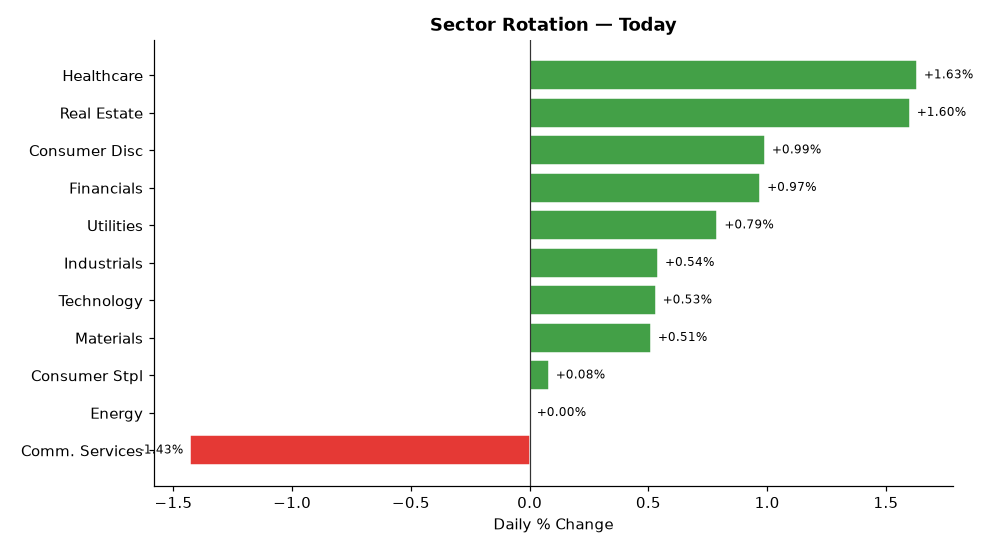
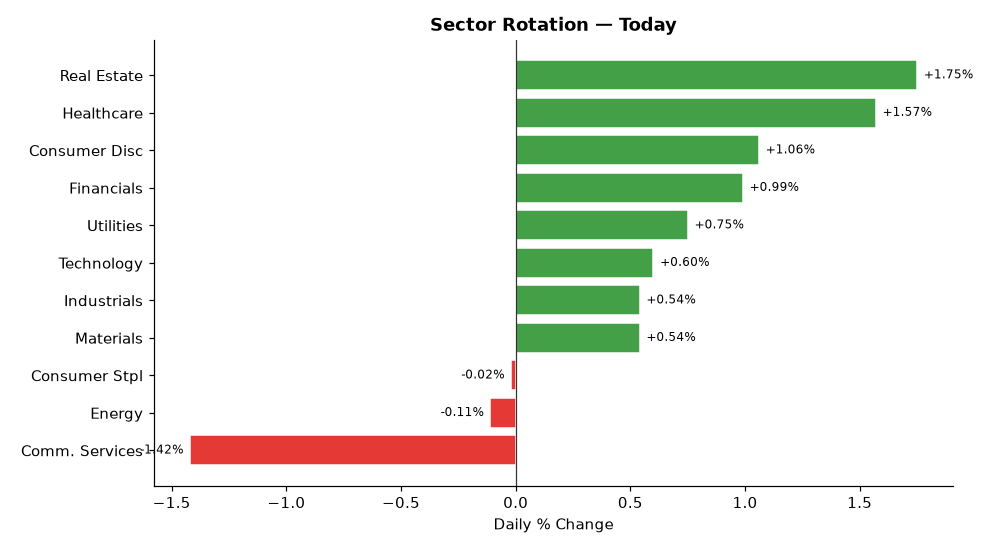
deploy: b7fadf5b06deb90e7ebb92f278722414bdd9750d

diff --git a/index.html b/index.html
@@ -4,7 +4,7 @@
   <meta charset="UTF-8">
   <meta name="viewport" content="width=device-width,initial-scale=1">
   <meta http-equiv="Cache-Control" content="no-cache,no-store,must-revalidate">
-  <title>Stock Breakout Screener — 2026-10-09 18:37</title>
+  <title>Stock Breakout Screener — 2026-10-09 18:54</title>
   <style>
     *{box-sizing:border-box;margin:0;padding:0}
     body{font-family:'Segoe UI',Arial,sans-serif;background:#f0f2f5;
@@ -34,7 +34,7 @@
 
 <div class="hdr">
   <h1>📈 Stock Breakout Screener</h1>
-  <p>Updated: 2026-10-09 18:37 UTC &nbsp;·&nbsp; Phase: Regular Market Hours &nbsp;·&nbsp;
+  <p>Updated: 2026-10-09 18:54 UTC &nbsp;·&nbsp; Phase: Regular Market Hours &nbsp;·&nbsp;
      129 stocks screened &nbsp;·&nbsp; Top 5 by conviction score</p>
 </div>
 
@@ -60,8 +60,8 @@
           <div style="display:flex;align-items:center;gap:10px;
                       flex-wrap:wrap;margin-bottom:10px">
             <span style="font-size:22px">🟡</span>
-            <span style="font-size:19px;font-weight:700">1. MRK</span>
-            <span style="font-size:12px;color:#666">Healthcare</span>
+            <span style="font-size:19px;font-weight:700">1. AMT</span>
+            <span style="font-size:12px;color:#666">Real Estate</span>
             <span style="margin-left:auto;background:#1a237e;color:#fff;
                          padding:3px 12px;border-radius:12px;
                          font-size:13px;font-weight:600">
@@ -69,7 +69,7 @@
             </span>
           </div>
           <ul style="margin:0;padding-left:18px;font-size:13px;
-                     color:#333;line-height:1.8"><li style="margin:5px 0"><span style="background:#ffebee;color:#b71c1c;padding:2px 7px;border-radius:4px;font-size:11px;">❌</span> Volume: <b>0.5× average</b> — Above-average activity</li><li style="margin:5px 0"><span style="background:#e8f5e9;color:#2e7d32;padding:2px 7px;border-radius:4px;font-size:11px;">✅</span> Candle: close <b>$146.20</b> vs open <b>$141.37</b> (+3.4%) — regular market close</li><li style="margin:5px 0"><span style="background:#e8f5e9;color:#2e7d32;padding:2px 7px;border-radius:4px;font-size:11px;">✅</span> 200-Day MA: price <b>$146.20</b> vs MA <b>$127.96</b> — <b>✅ Above</b> long-term trend</li><li style="margin:5px 0"><span style="background:#e8f5e9;color:#2e7d32;padding:2px 7px;border-radius:4px;font-size:11px;">✅</span> Inst. ownership: <b>83.0%</b> · MFI: <b>40.8</b> · Market cap: <b>$360.7B</b></li><li style="margin:5px 0"><span style="background:#ffebee;color:#b71c1c;padding:2px 7px;border-radius:4px;font-size:11px;">❌</span> Last similar breakout: <b>Aug 19, 2026</b> → <b>-0.4%</b> over 10 trading days</li></ul>
+                     color:#333;line-height:1.8"><li style="margin:5px 0"><span style="background:#fffde7;color:#f57f17;padding:2px 7px;border-radius:4px;font-size:11px;">⚠</span> Volume: <b>2.0× average</b> — Above-average activity</li><li style="margin:5px 0"><span style="background:#fffde7;color:#f57f17;padding:2px 7px;border-radius:4px;font-size:11px;">⚠</span> Candle: close <b>$180.49</b> vs open <b>$176.91</b> (+2.0%) — regular market close</li><li style="margin:5px 0"><span style="background:#e8f5e9;color:#2e7d32;padding:2px 7px;border-radius:4px;font-size:11px;">✅</span> 200-Day MA: price <b>$180.49</b> vs MA <b>$172.91</b> — <b>✅ Above</b> long-term trend</li><li style="margin:5px 0"><span style="background:#e8f5e9;color:#2e7d32;padding:2px 7px;border-radius:4px;font-size:11px;">✅</span> Inst. ownership: <b>96.8%</b> · MFI: <b>47.3</b> · Market cap: <b>$84.1B</b></li></ul>
         </div>
         <div style="background:#fff;border:1px solid #ddd;border-radius:10px;
                     padding:16px 20px;margin-bottom:12px;
@@ -77,8 +77,8 @@
           <div style="display:flex;align-items:center;gap:10px;
                       flex-wrap:wrap;margin-bottom:10px">
             <span style="font-size:22px">🟡</span>
-            <span style="font-size:19px;font-weight:700">2. ABBV</span>
-            <span style="font-size:12px;color:#666">Healthcare</span>
+            <span style="font-size:19px;font-weight:700">2. CCI</span>
+            <span style="font-size:12px;color:#666">Real Estate</span>
             <span style="margin-left:auto;background:#1a237e;color:#fff;
                          padding:3px 12px;border-radius:12px;
                          font-size:13px;font-weight:600">
@@ -86,7 +86,7 @@
             </span>
           </div>
           <ul style="margin:0;padding-left:18px;font-size:13px;
-                     color:#333;line-height:1.8"><li style="margin:5px 0"><span style="background:#ffebee;color:#b71c1c;padding:2px 7px;border-radius:4px;font-size:11px;">❌</span> Volume: <b>0.3× average</b> — Above-average activity</li><li style="margin:5px 0"><span style="background:#ffebee;color:#b71c1c;padding:2px 7px;border-radius:4px;font-size:11px;">❌</span> Candle: close <b>$276.25</b> vs open <b>$271.53</b> (+1.7%) — regular market close</li><li style="margin:5px 0"><span style="background:#e8f5e9;color:#2e7d32;padding:2px 7px;border-radius:4px;font-size:11px;">✅</span> 200-Day MA: price <b>$276.25</b> vs MA <b>$237.99</b> — <b>✅ Above</b> long-term trend</li><li style="margin:5px 0"><span style="background:#e8f5e9;color:#2e7d32;padding:2px 7px;border-radius:4px;font-size:11px;">✅</span> Inst. ownership: <b>77.3%</b> · MFI: <b>60.5</b> · Market cap: <b>$488.2B</b></li><li style="margin:5px 0"><span style="background:#ffebee;color:#b71c1c;padding:2px 7px;border-radius:4px;font-size:11px;">❌</span> Last similar breakout: <b>Jun 26, 2026</b> → <b>-2.1%</b> over 10 trading days</li></ul>
+                     color:#333;line-height:1.8"><li style="margin:5px 0"><span style="background:#e8f5e9;color:#2e7d32;padding:2px 7px;border-radius:4px;font-size:11px;">✅</span> Volume: <b>2.5× average</b> — 🔥 Strong unusual activity</li><li style="margin:5px 0"><span style="background:#e8f5e9;color:#2e7d32;padding:2px 7px;border-radius:4px;font-size:11px;">✅</span> Candle: close <b>$77.89</b> vs open <b>$74.32</b> (+4.8%) — regular market close</li><li style="margin:5px 0"><span style="background:#ffebee;color:#b71c1c;padding:2px 7px;border-radius:4px;font-size:11px;">❌</span> 200-Day MA: price <b>$77.89</b> vs MA <b>$79.18</b> — <b>❌ Below</b> long-term trend</li><li style="margin:5px 0"><span style="background:#e8f5e9;color:#2e7d32;padding:2px 7px;border-radius:4px;font-size:11px;">✅</span> Inst. ownership: <b>102.0%</b> · MFI: <b>44.1</b> · Market cap: <b>$33.1B</b></li></ul>
         </div>
         <div style="background:#fff;border:1px solid #ddd;border-radius:10px;
                     padding:16px 20px;margin-bottom:12px;
@@ -99,11 +99,11 @@
             <span style="margin-left:auto;background:#1a237e;color:#fff;
                          padding:3px 12px;border-radius:12px;
                          font-size:13px;font-weight:600">
-              10/17
+              9/17
             </span>
           </div>
           <ul style="margin:0;padding-left:18px;font-size:13px;
-                     color:#333;line-height:1.8"><li style="margin:5px 0"><span style="background:#ffebee;color:#b71c1c;padding:2px 7px;border-radius:4px;font-size:11px;">❌</span> Volume: <b>0.3× average</b> — Above-average activity</li><li style="margin:5px 0"><span style="background:#ffebee;color:#b71c1c;padding:2px 7px;border-radius:4px;font-size:11px;">❌</span> Candle: close <b>$535.35</b> vs open <b>$528.23</b> (+1.3%) — regular market close</li><li style="margin:5px 0"><span style="background:#e8f5e9;color:#2e7d32;padding:2px 7px;border-radius:4px;font-size:11px;">✅</span> 200-Day MA: price <b>$535.35</b> vs MA <b>$440.58</b> — <b>✅ Above</b> long-term trend</li><li style="margin:5px 0"><span style="background:#e8f5e9;color:#2e7d32;padding:2px 7px;border-radius:4px;font-size:11px;">✅</span> Inst. ownership: <b>75.8%</b> · MFI: <b>75.3</b> · Market cap: <b>$3975.9B</b></li><li style="margin:5px 0"><span style="background:#e8f5e9;color:#2e7d32;padding:2px 7px;border-radius:4px;font-size:11px;">✅</span> Last similar breakout: <b>Jul 30, 2026</b> → <b>+10.1%</b> over 10 trading days</li></ul>
+                     color:#333;line-height:1.8"><li style="margin:5px 0"><span style="background:#ffebee;color:#b71c1c;padding:2px 7px;border-radius:4px;font-size:11px;">❌</span> Volume: <b>0.3× average</b> — Above-average activity</li><li style="margin:5px 0"><span style="background:#ffebee;color:#b71c1c;padding:2px 7px;border-radius:4px;font-size:11px;">❌</span> Candle: close <b>$536.66</b> vs open <b>$528.23</b> (+1.6%) — regular market close</li><li style="margin:5px 0"><span style="background:#e8f5e9;color:#2e7d32;padding:2px 7px;border-radius:4px;font-size:11px;">✅</span> 200-Day MA: price <b>$536.66</b> vs MA <b>$440.59</b> — <b>✅ Above</b> long-term trend</li><li style="margin:5px 0"><span style="background:#e8f5e9;color:#2e7d32;padding:2px 7px;border-radius:4px;font-size:11px;">✅</span> Inst. ownership: <b>75.8%</b> · MFI: <b>75.4</b> · Market cap: <b>$3984.8B</b></li><li style="margin:5px 0"><span style="background:#e8f5e9;color:#2e7d32;padding:2px 7px;border-radius:4px;font-size:11px;">✅</span> Last similar breakout: <b>Jul 30, 2026</b> → <b>+10.1%</b> over 10 trading days</li></ul>
         </div>
         <div style="background:#fff;border:1px solid #ddd;border-radius:10px;
                     padding:16px 20px;margin-bottom:12px;
@@ -111,16 +111,16 @@
           <div style="display:flex;align-items:center;gap:10px;
                       flex-wrap:wrap;margin-bottom:10px">
             <span style="font-size:22px">🟡</span>
-            <span style="font-size:19px;font-weight:700">4. PFE</span>
+            <span style="font-size:19px;font-weight:700">4. MRK</span>
             <span style="font-size:12px;color:#666">Healthcare</span>
             <span style="margin-left:auto;background:#1a237e;color:#fff;
                          padding:3px 12px;border-radius:12px;
                          font-size:13px;font-weight:600">
-              10/17
+              9/17
             </span>
           </div>
           <ul style="margin:0;padding-left:18px;font-size:13px;
-                     color:#333;line-height:1.8"><li style="margin:5px 0"><span style="background:#ffebee;color:#b71c1c;padding:2px 7px;border-radius:4px;font-size:11px;">❌</span> Volume: <b>0.4× average</b> — Above-average activity</li><li style="margin:5px 0"><span style="background:#ffebee;color:#b71c1c;padding:2px 7px;border-radius:4px;font-size:11px;">❌</span> Candle: close <b>$28.20</b> vs open <b>$27.61</b> (+2.2%) — regular market close</li><li style="margin:5px 0"><span style="background:#e8f5e9;color:#2e7d32;padding:2px 7px;border-radius:4px;font-size:11px;">✅</span> 200-Day MA: price <b>$28.20</b> vs MA <b>$26.08</b> — <b>✅ Above</b> long-term trend</li><li style="margin:5px 0"><span style="background:#e8f5e9;color:#2e7d32;padding:2px 7px;border-radius:4px;font-size:11px;">✅</span> Inst. ownership: <b>69.2%</b> · MFI: <b>59.0</b> · Market cap: <b>$160.8B</b></li></ul>
+                     color:#333;line-height:1.8"><li style="margin:5px 0"><span style="background:#ffebee;color:#b71c1c;padding:2px 7px;border-radius:4px;font-size:11px;">❌</span> Volume: <b>0.5× average</b> — Above-average activity</li><li style="margin:5px 0"><span style="background:#e8f5e9;color:#2e7d32;padding:2px 7px;border-radius:4px;font-size:11px;">✅</span> Candle: close <b>$146.17</b> vs open <b>$141.37</b> (+3.4%) — regular market close</li><li style="margin:5px 0"><span style="background:#e8f5e9;color:#2e7d32;padding:2px 7px;border-radius:4px;font-size:11px;">✅</span> 200-Day MA: price <b>$146.17</b> vs MA <b>$127.95</b> — <b>✅ Above</b> long-term trend</li><li style="margin:5px 0"><span style="background:#e8f5e9;color:#2e7d32;padding:2px 7px;border-radius:4px;font-size:11px;">✅</span> Inst. ownership: <b>83.0%</b> · MFI: <b>40.9</b> · Market cap: <b>$360.6B</b></li><li style="margin:5px 0"><span style="background:#ffebee;color:#b71c1c;padding:2px 7px;border-radius:4px;font-size:11px;">❌</span> Last similar breakout: <b>Aug 19, 2026</b> → <b>-0.4%</b> over 10 trading days</li></ul>
         </div>
         <div style="background:#fff;border:1px solid #ddd;border-radius:10px;
                     padding:16px 20px;margin-bottom:12px;
@@ -128,16 +128,16 @@
           <div style="display:flex;align-items:center;gap:10px;
                       flex-wrap:wrap;margin-bottom:10px">
             <span style="font-size:22px">🟡</span>
-            <span style="font-size:19px;font-weight:700">5. LLY</span>
+            <span style="font-size:19px;font-weight:700">5. ABBV</span>
             <span style="font-size:12px;color:#666">Healthcare</span>
             <span style="margin-left:auto;background:#1a237e;color:#fff;
                          padding:3px 12px;border-radius:12px;
                          font-size:13px;font-weight:600">
-              10/17
+              9/17
             </span>
           </div>
           <ul style="margin:0;padding-left:18px;font-size:13px;
-                     color:#333;line-height:1.8"><li style="margin:5px 0"><span style="background:#ffebee;color:#b71c1c;padding:2px 7px;border-radius:4px;font-size:11px;">❌</span> Volume: <b>0.3× average</b> — Above-average activity</li><li style="margin:5px 0"><span style="background:#ffebee;color:#b71c1c;padding:2px 7px;border-radius:4px;font-size:11px;">❌</span> Candle: close <b>$1175.44</b> vs open <b>$1153.56</b> (+1.9%) — regular market close</li><li style="margin:5px 0"><span style="background:#e8f5e9;color:#2e7d32;padding:2px 7px;border-radius:4px;font-size:11px;">✅</span> 200-Day MA: price <b>$1175.44</b> vs MA <b>$1110.27</b> — <b>✅ Above</b> long-term trend</li><li style="margin:5px 0"><span style="background:#e8f5e9;color:#2e7d32;padding:2px 7px;border-radius:4px;font-size:11px;">✅</span> Inst. ownership: <b>85.3%</b> · MFI: <b>52.5</b> · Market cap: <b>$1047.4B</b></li><li style="margin:5px 0"><span style="background:#ffebee;color:#b71c1c;padding:2px 7px;border-radius:4px;font-size:11px;">❌</span> Last similar breakout: <b>Jun 26, 2026</b> → <b>-2.2%</b> over 10 trading days</li></ul>
+                     color:#333;line-height:1.8"><li style="margin:5px 0"><span style="background:#ffebee;color:#b71c1c;padding:2px 7px;border-radius:4px;font-size:11px;">❌</span> Volume: <b>0.3× average</b> — Above-average activity</li><li style="margin:5px 0"><span style="background:#ffebee;color:#b71c1c;padding:2px 7px;border-radius:4px;font-size:11px;">❌</span> Candle: close <b>$276.29</b> vs open <b>$271.53</b> (+1.8%) — regular market close</li><li style="margin:5px 0"><span style="background:#e8f5e9;color:#2e7d32;padding:2px 7px;border-radius:4px;font-size:11px;">✅</span> 200-Day MA: price <b>$276.29</b> vs MA <b>$237.99</b> — <b>✅ Above</b> long-term trend</li><li style="margin:5px 0"><span style="background:#e8f5e9;color:#2e7d32;padding:2px 7px;border-radius:4px;font-size:11px;">✅</span> Inst. ownership: <b>77.3%</b> · MFI: <b>60.6</b> · Market cap: <b>$488.2B</b></li><li style="margin:5px 0"><span style="background:#ffebee;color:#b71c1c;padding:2px 7px;border-radius:4px;font-size:11px;">❌</span> Last similar breakout: <b>Jun 26, 2026</b> → <b>-2.1%</b> over 10 trading days</li></ul>
         </div>
 
 
@@ -168,6 +168,60 @@
   
         <tr>
           <td style="font-weight:700;text-align:left;padding-left:10px">
+            🟡 AMT</td>
+          <td style="background:#fff9c4">2.0×</td>
+          <td style="background:#fff9c4">+2.0%</td>
+          <td style="background:#c8e6c9">
+            ▲ Above</td>
+          <td style="background:#c8e6c9">
+            96.8%</td>
+          <td style="background:#ffcdd2">
+            47.3</td>
+          <td style="background:#c8e6c9">Real Estate</td>
+          <td style="background:#c8e6c9">
+            75.3%</td>
+          <td style="background:#ffcdd2">
+            N/A</td>
+          <td style="font-weight:800;font-size:15px">11/17</td>
+        </tr>
+        <tr>
+          <td style="font-weight:700;text-align:left;padding-left:10px">
+            🟡 CCI</td>
+          <td style="background:#c8e6c9">2.5×</td>
+          <td style="background:#c8e6c9">+4.8%</td>
+          <td style="background:#ffcdd2">
+            ▼ Below</td>
+          <td style="background:#c8e6c9">
+            102.0%</td>
+          <td style="background:#ffcdd2">
+            44.1</td>
+          <td style="background:#c8e6c9">Real Estate</td>
+          <td style="background:#c8e6c9">
+            88.6%</td>
+          <td style="background:#ffcdd2">
+            N/A</td>
+          <td style="font-weight:800;font-size:15px">11/17</td>
+        </tr>
+        <tr>
+          <td style="font-weight:700;text-align:left;padding-left:10px">
+            🟡 MSFT</td>
+          <td style="background:#ffcdd2">0.3×</td>
+          <td style="background:#ffcdd2">+1.6%</td>
+          <td style="background:#c8e6c9">
+            ▲ Above</td>
+          <td style="background:#c8e6c9">
+            75.8%</td>
+          <td style="background:#c8e6c9">
+            75.4</td>
+          <td style="background:#ffcdd2">Technology</td>
+          <td style="background:#fff9c4">
+            17.2%</td>
+          <td style="background:#c8e6c9">
+            +10.1%</td>
+          <td style="font-weight:800;font-size:15px">9/17</td>
+        </tr>
+        <tr>
+          <td style="font-weight:700;text-align:left;padding-left:10px">
             🟡 MRK</td>
           <td style="background:#ffcdd2">0.5×</td>
           <td style="background:#c8e6c9">+3.4%</td>
@@ -176,85 +230,31 @@
           <td style="background:#c8e6c9">
             83.0%</td>
           <td style="background:#ffcdd2">
-            40.8</td>
-          <td style="background:#c8e6c9">Healthcare</td>
+            40.9</td>
+          <td style="background:#fff9c4">Healthcare</td>
           <td style="background:#c8e6c9">
-            118.3%</td>
+            119.6%</td>
           <td style="background:#ffcdd2">
             -0.4%</td>
-          <td style="font-weight:800;font-size:15px">11/17</td>
+          <td style="font-weight:800;font-size:15px">9/17</td>
         </tr>
         <tr>
           <td style="font-weight:700;text-align:left;padding-left:10px">
             🟡 ABBV</td>
           <td style="background:#ffcdd2">0.3×</td>
-          <td style="background:#ffcdd2">+1.7%</td>
+          <td style="background:#ffcdd2">+1.8%</td>
           <td style="background:#c8e6c9">
             ▲ Above</td>
           <td style="background:#c8e6c9">
             77.3%</td>
           <td style="background:#c8e6c9">
-            60.5</td>
-          <td style="background:#c8e6c9">Healthcare</td>
+            60.6</td>
+          <td style="background:#fff9c4">Healthcare</td>
           <td style="background:#c8e6c9">
-            125.3%</td>
+            125.2%</td>
           <td style="background:#ffcdd2">
             -2.1%</td>
-          <td style="font-weight:800;font-size:15px">11/17</td>
-        </tr>
-        <tr>
-          <td style="font-weight:700;text-align:left;padding-left:10px">
-            🟡 MSFT</td>
-          <td style="background:#ffcdd2">0.3×</td>
-          <td style="background:#ffcdd2">+1.3%</td>
-          <td style="background:#c8e6c9">
-            ▲ Above</td>
-          <td style="background:#c8e6c9">
-            75.8%</td>
-          <td style="background:#c8e6c9">
-            75.3</td>
-          <td style="background:#ffcdd2">Technology</td>
-          <td style="background:#c8e6c9">
-            83.9%</td>
-          <td style="background:#c8e6c9">
-            +10.1%</td>
-          <td style="font-weight:800;font-size:15px">10/17</td>
-        </tr>
-        <tr>
-          <td style="font-weight:700;text-align:left;padding-left:10px">
-            🟡 PFE</td>
-          <td style="background:#ffcdd2">0.4×</td>
-          <td style="background:#ffcdd2">+2.2%</td>
-          <td style="background:#c8e6c9">
-            ▲ Above</td>
-          <td style="background:#c8e6c9">
-            69.2%</td>
-          <td style="background:#fff9c4">
-            59.0</td>
-          <td style="background:#c8e6c9">Healthcare</td>
-          <td style="background:#c8e6c9">
-            181.2%</td>
-          <td style="background:#ffcdd2">
-            N/A</td>
-          <td style="font-weight:800;font-size:15px">10/17</td>
-        </tr>
-        <tr>
-          <td style="font-weight:700;text-align:left;padding-left:10px">
-            🟡 LLY</td>
-          <td style="background:#ffcdd2">0.3×</td>
-          <td style="background:#ffcdd2">+1.9%</td>
-          <td style="background:#c8e6c9">
-            ▲ Above</td>
-          <td style="background:#c8e6c9">
-            85.3%</td>
-          <td style="background:#fff9c4">
-            52.5</td>
-          <td style="background:#c8e6c9">Healthcare</td>
-          <td style="background:#c8e6c9">
-            115.5%</td>
-          <td style="background:#ffcdd2">
-            -2.2%</td>
-          <td style="font-weight:800;font-size:15px">10/17</td>
+          <td style="font-weight:800;font-size:15px">9/17</td>
         </tr>
 </table>
 </div>
@@ -277,58 +277,58 @@
       
         <tr>
           <td style="text-align:left;padding-left:10px;font-weight:600">
-            #1 Healthcare</td>
-          <td style="background:#e8f5e9;color:#2e7d32;font-weight:700">+1.63%</td>
+            #1 Real Estate</td>
+          <td style="background:#e8f5e9;color:#2e7d32;font-weight:700">+1.75%</td>
         </tr>
         <tr>
           <td style="text-align:left;padding-left:10px;font-weight:600">
-            #2 Real Estate</td>
-          <td style="background:#e8f5e9;color:#2e7d32;font-weight:700">+1.60%</td>
+            #2 Healthcare</td>
+          <td style="background:#e8f5e9;color:#2e7d32;font-weight:700">+1.57%</td>
         </tr>
         <tr>
           <td style="text-align:left;padding-left:10px;font-weight:600">
             #3 Consumer Disc</td>
-          <td style="background:#e8f5e9;color:#2e7d32;font-weight:700">+0.99%</td>
+          <td style="background:#e8f5e9;color:#2e7d32;font-weight:700">+1.06%</td>
         </tr>
         <tr>
           <td style="text-align:left;padding-left:10px;font-weight:600">
             #4 Financials</td>
-          <td style="background:#e8f5e9;color:#2e7d32;font-weight:700">+0.97%</td>
+          <td style="background:#e8f5e9;color:#2e7d32;font-weight:700">+0.99%</td>
         </tr>
         <tr>
           <td style="text-align:left;padding-left:10px;font-weight:600">
             #5 Utilities</td>
-          <td style="background:#e8f5e9;color:#2e7d32;font-weight:700">+0.79%</td>
+          <td style="background:#e8f5e9;color:#2e7d32;font-weight:700">+0.75%</td>
         </tr>
         <tr>
           <td style="text-align:left;padding-left:10px;font-weight:600">
-            #6 Industrials</td>
+            #6 Technology</td>
+          <td style="background:#e8f5e9;color:#2e7d32;font-weight:700">+0.60%</td>
+        </tr>
+        <tr>
+          <td style="text-align:left;padding-left:10px;font-weight:600">
+            #7 Industrials</td>
           <td style="background:#e8f5e9;color:#2e7d32;font-weight:700">+0.54%</td>
         </tr>
         <tr>
           <td style="text-align:left;padding-left:10px;font-weight:600">
-            #7 Technology</td>
-          <td style="background:#e8f5e9;color:#2e7d32;font-weight:700">+0.53%</td>
-        </tr>
-        <tr>
-          <td style="text-align:left;padding-left:10px;font-weight:600">
             #8 Materials</td>
-          <td style="background:#e8f5e9;color:#2e7d32;font-weight:700">+0.51%</td>
+          <td style="background:#e8f5e9;color:#2e7d32;font-weight:700">+0.54%</td>
         </tr>
         <tr>
           <td style="text-align:left;padding-left:10px;font-weight:600">
             #9 Consumer Stpl</td>
-          <td style="background:#e8f5e9;color:#2e7d32;font-weight:700">+0.08%</td>
+          <td style="background:#ffebee;color:#c62828;font-weight:700">-0.02%</td>
         </tr>
         <tr>
           <td style="text-align:left;padding-left:10px;font-weight:600">
             #10 Energy</td>
-          <td style="background:#ffebee;color:#c62828;font-weight:700">+0.00%</td>
+          <td style="background:#ffebee;color:#c62828;font-weight:700">-0.11%</td>
         </tr>
         <tr>
           <td style="text-align:left;padding-left:10px;font-weight:600">
             #11 Comm. Services</td>
-          <td style="background:#ffebee;color:#c62828;font-weight:700">-1.43%</td>
+          <td style="background:#ffebee;color:#c62828;font-weight:700">-1.42%</td>
         </tr>
     </table>
   </div>
@@ -367,7 +367,7 @@
         <li><b>Scoring weights:</b>
             Inst.Own(3) · Sector(3) · Volume(2) · Breakout(2) ·
             MA200(2) · MFI(2) · History(2) · IV(1) = 17pts max</li>
-        <li><b>Run time:</b> 2026-10-09 18:37 UTC — Market phase: Regular Market Hours</li>
+        <li><b>Run time:</b> 2026-10-09 18:54 UTC — Market phase: Regular Market Hours</li>
       </ul>
     </div>
 
